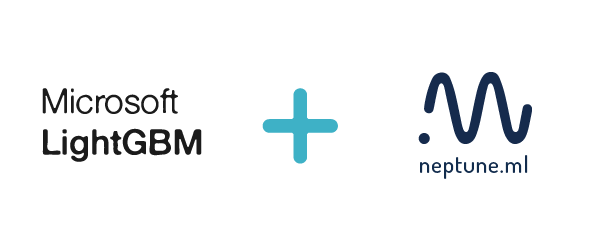
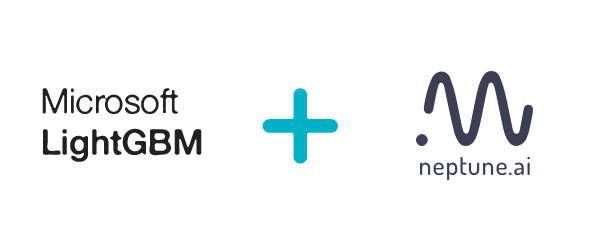
changed ml to ai, bumped year to 2020 (#70)
* changed ml to ai

* bumped year to 2020

diff --git a/neptunecontrib/monitoring/metrics.py b/neptunecontrib/monitoring/metrics.py
@@ -71,7 +71,7 @@ def log_binary_classification_metrics(y_true, y_pred, threshold=0.5, experiment=
             with neptune.create_experiment():
                 log_binary_classification_metrics(y_test, y_test_pred, threshold=0.5)
 
-        Check out this experiment https://ui.neptune.ml/o/neptune-ml/org/binary-classification-metrics/e/BIN-101/logs.
+        Check out this experiment https://ui.neptune.ai/o/neptune-ai/org/binary-classification-metrics/e/BIN-101/logs.
 
     """
     assert len(y_pred.shape) == 2, 'y_pred needs to be (n_samples, 2), use expand_prediction helper to format it'
@@ -127,7 +127,7 @@ def log_confusion_matrix(y_true, y_pred_class, experiment=None, channel_name='me
             with neptune.create_experiment():
                 log_confusion_matrix(y_test, y_test_pred[:,1]>0.5)
 
-        Check out this experiment https://ui.neptune.ml/o/neptune-ml/org/binary-classification-metrics/e/BIN-101/logs.
+        Check out this experiment https://ui.neptune.ai/o/neptune-ai/org/binary-classification-metrics/e/BIN-101/logs.
 
     """
     assert len(y_pred_class.shape) == 1, 'y_pred_class needs to be 1D class prediction with values 0, 1'
@@ -175,7 +175,7 @@ def log_classification_report(y_true, y_pred_class, experiment=None, channel_nam
             with neptune.create_experiment():
                 log_classification_report(y_test, y_test_pred[:,1]>0.5)
 
-        Check out this experiment https://ui.neptune.ml/o/neptune-ml/org/binary-classification-metrics/e/BIN-101/logs.
+        Check out this experiment https://ui.neptune.ai/o/neptune-ai/org/binary-classification-metrics/e/BIN-101/logs.
 
     """
     assert len(y_pred_class.shape) == 1, 'y_pred_class needs to be 1D class prediction with values 0, 1'
@@ -225,7 +225,7 @@ def log_class_metrics(y_true, y_pred_class, experiment=None, prefix=''):
             with neptune.create_experiment():
                 log_class_metrics(y_test, y_test_pred[:,1]>0.5)
 
-        Check out this experiment https://ui.neptune.ml/o/neptune-ml/org/binary-classification-metrics/e/BIN-101/logs.
+        Check out this experiment https://ui.neptune.ai/o/neptune-ai/org/binary-classification-metrics/e/BIN-101/logs.
 
     """
     assert len(y_pred_class.shape) == 1, 'y_pred_class needs to be 1D class prediction with values 0, 1'
@@ -276,7 +276,7 @@ def log_class_metrics_by_threshold(y_true, y_pred_pos, experiment=None, channel_
             with neptune.create_experiment():
                 log_class_metrics_by_threshold(y_test, y_test_pred[:,1])
 
-        Check out this experiment https://ui.neptune.ml/o/neptune-ml/org/binary-classification-metrics/e/BIN-101/logs.
+        Check out this experiment https://ui.neptune.ai/o/neptune-ai/org/binary-classification-metrics/e/BIN-101/logs.
 
     """
     assert len(y_pred_pos.shape) == 1, 'y_pred_pos needs to be 1D prediction for positive class'
@@ -325,7 +325,7 @@ def log_roc_auc(y_true, y_pred, experiment=None, channel_name='metric_charts', p
             with neptune.create_experiment():
                 log_roc_auc(y_test, y_test_pred)
 
-        Check out this experiment https://ui.neptune.ml/o/neptune-ml/org/binary-classification-metrics/e/BIN-101/logs.
+        Check out this experiment https://ui.neptune.ai/o/neptune-ai/org/binary-classification-metrics/e/BIN-101/logs.
 
     """
     assert len(y_pred.shape) == 2, 'y_pred needs to be (n_samples, 2), use expand_prediction helper to format it'
@@ -376,7 +376,7 @@ def log_precision_recall_auc(y_true, y_pred, experiment=None, channel_name='metr
             with neptune.create_experiment():
                 log_precision_recall_auc(y_test, y_test_pred)
 
-        Check out this experiment https://ui.neptune.ml/o/neptune-ml/org/binary-classification-metrics/e/BIN-101/logs.
+        Check out this experiment https://ui.neptune.ai/o/neptune-ai/org/binary-classification-metrics/e/BIN-101/logs.
 
     """
     assert len(y_pred.shape) == 2, 'y_pred needs to be (n_samples, 2), use expand_prediction helper to format it'
@@ -426,7 +426,7 @@ def log_brier_loss(y_true, y_pred_pos, experiment=None, prefix=''):
             with neptune.create_experiment():
                 log_brier_loss(y_test, y_test_pred[:,1])
 
-        Check out this experiment https://ui.neptune.ml/o/neptune-ml/org/binary-classification-metrics/e/BIN-101/logs.
+        Check out this experiment https://ui.neptune.ai/o/neptune-ai/org/binary-classification-metrics/e/BIN-101/logs.
 
     """
     assert len(y_pred_pos.shape) == 1, 'y_pred_pos needs to be 1D prediction for positive class'
@@ -471,7 +471,7 @@ def log_log_loss(y_true, y_pred, experiment=None, prefix=''):
             with neptune.create_experiment():
                 log_log_loss(y_test, y_test_pred)
 
-        Check out this experiment https://ui.neptune.ml/o/neptune-ml/org/binary-classification-metrics/e/BIN-101/logs.
+        Check out this experiment https://ui.neptune.ai/o/neptune-ai/org/binary-classification-metrics/e/BIN-101/logs.
 
     """
     assert len(y_pred.shape) == 2, 'y_pred needs to be (n_samples, 2), use expand_prediction helper to format it'
@@ -521,7 +521,7 @@ def log_ks_statistic(y_true, y_pred, experiment=None, channel_name='metric_chart
             with neptune.create_experiment():
                 log_ks_statistic(y_test, y_test_pred)
 
-        Check out this experiment https://ui.neptune.ml/o/neptune-ml/org/binary-classification-metrics/e/BIN-101/logs.
+        Check out this experiment https://ui.neptune.ai/o/neptune-ai/org/binary-classification-metrics/e/BIN-101/logs.
 
     """
     assert len(y_pred.shape) == 2, 'y_pred needs to be (n_samples, 2), use expand_prediction helper to format it'
@@ -573,7 +573,7 @@ def log_cumulative_gain(y_true, y_pred, experiment=None, channel_name='metric_ch
             with neptune.create_experiment():
                 log_cumulative_gain(y_test, y_test_pred)
 
-        Check out this experiment https://ui.neptune.ml/o/neptune-ml/org/binary-classification-metrics/e/BIN-101/logs.
+        Check out this experiment https://ui.neptune.ai/o/neptune-ai/org/binary-classification-metrics/e/BIN-101/logs.
 
     """
     assert len(y_pred.shape) == 2, 'y_pred needs to be (n_samples, 2), use expand_prediction helper to format it'
@@ -621,7 +621,7 @@ def log_lift_curve(y_true, y_pred, experiment=None, channel_name='metric_charts'
             with neptune.create_experiment():
                 log_lift_curve(y_test, y_test_pred)
 
-        Check out this experiment https://ui.neptune.ml/o/neptune-ml/org/binary-classification-metrics/e/BIN-101/logs.
+        Check out this experiment https://ui.neptune.ai/o/neptune-ai/org/binary-classification-metrics/e/BIN-101/logs.
 
     """
     assert len(y_pred.shape) == 2, 'y_pred needs to be (n_samples, 2), use expand_prediction helper to format it'

diff --git a/neptunecontrib/bots/telegram_bot.py b/neptunecontrib/bots/telegram_bot.py
@@ -49,7 +49,7 @@ Example:
 
     Go to your telegram and type.
 
-    `/project list neptune-ml`
+    `/project list neptune-ai`
 
     Use help to see what is implemented.
 
@@ -135,7 +135,7 @@ class TelegramBot:
             msg = ['message should have a format:',
                    '/project list NAMESPACE',
                    'for example:',
-                   '/project list neptune-ml']
+                   '/project list neptune-ai']
             msg = '\n'.join(msg)
         else:
             namespace = args[1]
@@ -148,7 +148,7 @@ class TelegramBot:
             msg = ['message should have a format:',
                    '/project select NAMESPACE/PROJECT_NAME',
                    'for example:',
-                   '/project select neptune-ml/neptune-examples']
+                   '/project select neptune-ai/neptune-examples']
             msg = '\n'.join(msg)
         else:
             self.project_name = args[1]
@@ -246,7 +246,7 @@ class TelegramBot:
             short_id = args[1]
             namespace, project = self.project_name.split('/')
 
-            msg = 'https://app.neptune.ml/o/{}/org/{}/e/{}/details'.format(namespace, project, short_id)
+            msg = 'https://ui.neptune.ai/o/{}/org/{}/e/{}/details'.format(namespace, project, short_id)
         bot.send_message(chat_id=update.message.chat_id, text=msg)
 
     def _experiment_plot(self, bot, update, args):
@@ -291,7 +291,7 @@ class TelegramBot:
                "Do so by running:\n"
                "/project select NAMESPACE/PROJECT_NAME",
                "For example:",
-               "/project select neptune-ml/neptune-examples"]
+               "/project select neptune-ai/neptune-examples"]
         msg = '\n'.join(msg)
         bot.send_message(chat_id=update.message.chat_id, text=msg)
 

diff --git a/neptunecontrib/api/utils.py b/neptunecontrib/api/utils.py
@@ -47,7 +47,7 @@ def concat_experiments_on_channel(experiments, channel_name):
 
         Fetch a project and a list of experiments::
 
-            project = session.get_projects('neptune-ml')['neptune-ml/Salt-Detection']
+            project = session.get_projects('neptune-ai')['neptune-ai/Salt-Detection']
             experiments = project.get_experiments(state=['aborted'], owner=['neyo'], min_running_time=100000)
 
         Construct a channel value dataframe::
@@ -100,7 +100,7 @@ def extract_project_progress_info(leadearboard, metric_colname, time_colname='fi
 
         Fetch a project and the experiment view of that project::
 
-            project = session.get_projects('neptune-ml')['neptune-ml/Salt-Detection']
+            project = session.get_projects('neptune-ai')['neptune-ai/Salt-Detection']
             leaderboard = project.get_leaderboard()
 
         Create a progress info dataframe::
@@ -225,7 +225,7 @@ def get_filepaths(dirpath='.', extensions=None):
     msg = """get_filepaths() is deprecated.
     Starting from neptune-client==4.9 you can pass ['**/*.py*', '**/*.yaml*', '**/*.yml*']
     to upload_source_files argument to upload all files with given extensions recursively.
-    Read more https://docs.neptune.ml/neptune-client/docs/project.html
+    Read more https://docs.neptune.ai/neptune-client/docs/project.html
     """
     warnings.warn(msg, DeprecationWarning)
 

diff --git a/neptunecontrib/monitoring/sacred.py b/neptunecontrib/monitoring/sacred.py
@@ -26,9 +26,9 @@ from sacred.observers import RunObserver
 class NeptuneObserver(RunObserver):
     """Logs sacred experiment data to Neptune.
 
-    Sacred observer that logs experiment metadata to neptune.ml app.
+    Sacred observer that logs experiment metadata to neptune.
     The experiment data can be accessed and shared via web UI or experiment API.
-    Check Neptune docs for more information https://docs.neptune.ml.
+    Check Neptune docs for more information https://docs.neptune.ai.
 
     Args:
         project_name(str): project name in Neptune app
@@ -74,7 +74,7 @@ class NeptuneObserver(RunObserver):
                 return clf.score(iris.data[90:],
                                  iris.target[90:])
 
-        Go to the app and see the experiment. For example, https://ui.neptune.ml/jakub-czakon/examples/e/EX-341
+        Go to the app and see the experiment. For example, https://ui.neptune.ai/jakub-czakon/examples/e/EX-341
     """
 
     def __init__(self, project_name, api_token=None, source_extensions=None):

diff --git a/neptunecontrib/monitoring/optuna.py b/neptunecontrib/monitoring/optuna.py
@@ -41,7 +41,7 @@ def NeptuneMonitor(experiment=None):
             study = optuna.create_study(direction='maximize')
             study.optimize(objective, n_trials=100, callbacks=[monitor])
 
-        You can explore an example experiment in Neptune https://ui.neptune.ml/jakub-czakon/blog-hpo/e/BLOG-404/charts
+        You can explore an example experiment in Neptune https://ui.neptune.ai/jakub-czakon/blog-hpo/e/BLOG-404/charts
     """
 
     _exp = experiment if experiment else neptune
@@ -81,7 +81,7 @@ def log_study(study, experiment=None):
             study.optimize(objective, n_trials=100, callbacks=[monitor])
             opt_utils.log_study(study)
 
-        You can explore an example experiment in Neptune https://ui.neptune.ml/jakub-czakon/blog-hpo/e/BLOG-404/charts
+        You can explore an example experiment in Neptune https://ui.neptune.ai/jakub-czakon/blog-hpo/e/BLOG-404/charts
      """
     _exp = experiment if experiment else neptune
 

diff --git a/neptunecontrib/sync/with_json.py b/neptunecontrib/sync/with_json.py
@@ -23,7 +23,7 @@ Attributes:
     filepath(str): filepath to the `.json` file that contains experiment data. It can have
         ['tags', 'channels', 'properties', 'parameters', 'name'] sections.
         You can pass it either as --filepath or -f.
-    project_name(str): Full name of the project. E.g. "neptune-ml/neptune-examples",
+    project_name(str): Full name of the project. E.g. "neptune-ai/neptune-examples",
         You can pass it either as --project_name or -p.
     neptune_api_token(str): Neptune api token. If you have NEPTUNE_API_TOKEN environment
         variable set to your API token you can skip this parameter.
@@ -66,7 +66,7 @@ Example:
 
         $ python neptunecontrib.sync.with_json
             --neptune_api_token 'ey7123qwwskdnaqsojnd1ru0129e12e=='
-            --project_name neptune-ml/neptune-examples
+            --project_name neptune-ai/neptune-examples
             --filepath experiment_data.json
 
 Note:

diff --git a/neptunecontrib/versioning/data.py b/neptunecontrib/versioning/data.py
@@ -99,7 +99,7 @@ def log_image_dir_snapshots(image_dir, channel_name='image_dir_snapshots', exper
     For a given directory with images it logs a sample of images as figure to Neptune.
     If the `image_dir` specified contains multiple folders it will sample per folder and create
     multiple figures naming each figure with the folder name.
-    See snapshots per class here https://ui.neptune.ml/jakub-czakon/examples/e/EX-95/channels.
+    See snapshots per class here https://ui.neptune.ai/jakub-czakon/examples/e/EX-95/channels.
 
     Args:
         image_dir(str): path to directory with images.

diff --git a/setup.py b/setup.py
@@ -24,10 +24,10 @@ def main():
     setup(
         name='neptune-contrib',
         version='0.15.1',
-        description='Neptune.ml contributions library',
-        author='neptune.ml',
-        support='contact@neptune.ml',
-        author_email='contact@neptune.ml',
+        description='Neptune.ai contributions library',
+        author='neptune.ai',
+        support='contact@neptune.ai',
+        author_email='contact@neptune.ai',
         url="https://github.com/neptune-ml/neptune-contrib",
         long_description=readme,
         license='MIT License',

diff --git a/neptunecontrib/hpo/utils.py b/neptunecontrib/hpo/utils.py
@@ -99,7 +99,7 @@ def df2result(df, metric_col, param_cols, param_types=None):
 
         Fetch a project and a list of experiments::
 
-            project = session.get_projects('neptune-ml')['neptune-ml/Home-Credit-Default-Risk']
+            project = session.get_projects('neptune-ai')['neptune-ai/Home-Credit-Default-Risk']
             leaderboard = project.get_leaderboard(state=['succeeded'], owner=['czakon'])
 
         Comvert the leaderboard dataframe to the `ResultOptimize` instance taking only the parameters and

diff --git a/neptunecontrib/monitoring/fairness.py b/neptunecontrib/monitoring/fairness.py
@@ -74,7 +74,7 @@ def log_fairness_classification_metrics(y_true, y_pred_class, y_pred_score, sens
                                                     privileged_groups={'race':['African-American','Hispanic]},
                                                     )
 
-        Check out this experiment https://ui.neptune.ml/jakub-czakon/model-fairness/e/MOD-92/logs.
+        Check out this experiment https://ui.neptune.ai/jakub-czakon/model-fairness/e/MOD-92/logs.
 
     """
     _exp = experiment if experiment else neptune

diff --git a/neptunecontrib/viz/experiments.py b/neptunecontrib/viz/experiments.py
@@ -55,7 +55,7 @@ def channel_curve_compare(experiment_df,
 
         Fetch a project and a list of experiments::
 
-            project = session.get_projects('neptune-ml')['neptune-ml/Salt-Detection']
+            project = session.get_projects('neptune-ai')['neptune-ai/Salt-Detection']
             experiments = project.get_experiments(state=['aborted'], owner=['neyo'], min_running_time=100000)
 
         Construct a channel value dataframe::

diff --git a/neptunecontrib/viz/projects.py b/neptunecontrib/viz/projects.py
@@ -63,7 +63,7 @@ def project_progress(progress_df,
 
         Fetch a project and the experiment view of that project::
 
-            project = session.get_projects('neptune-ml')['neptune-ml/Salt-Detection']
+            project = session.get_projects('neptune-ai')['neptune-ai/Salt-Detection']
             leaderboard = project.get_leaderboard()
 
         Create a progress info dataframe::
